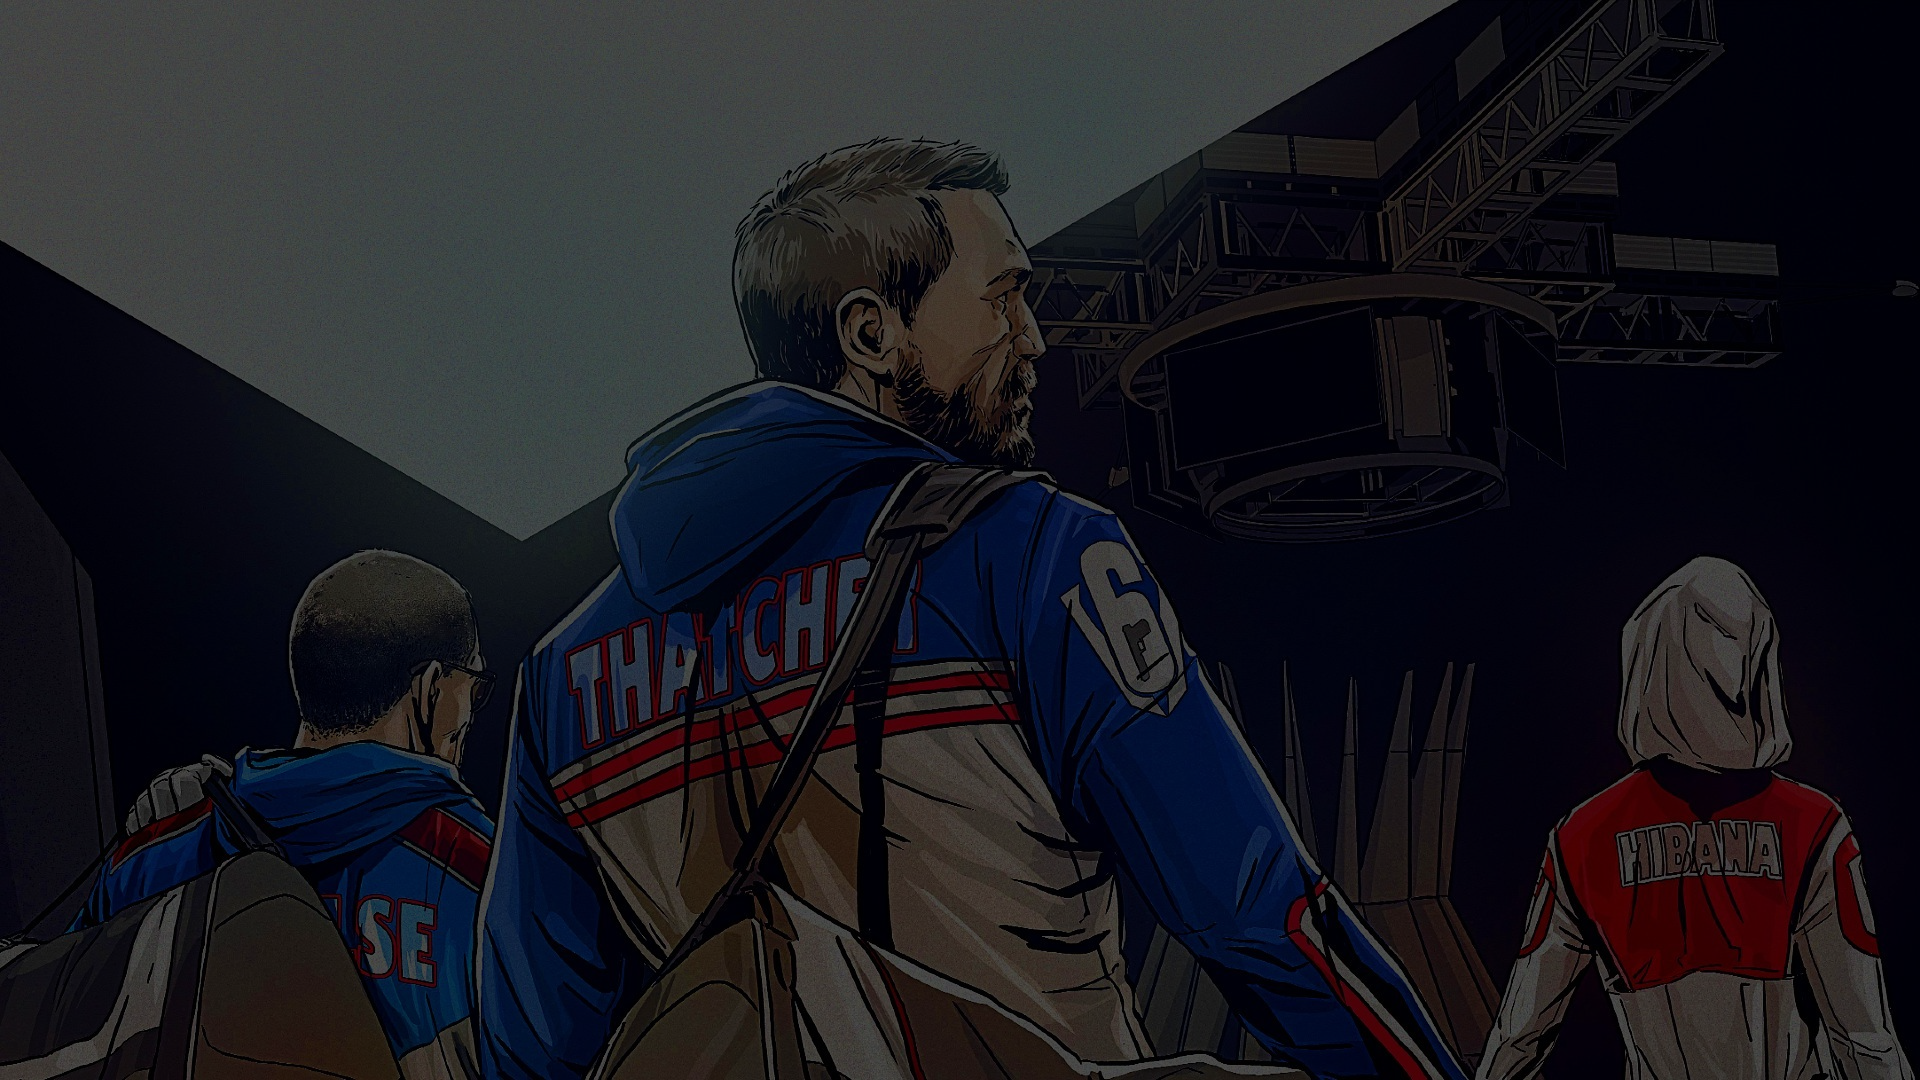
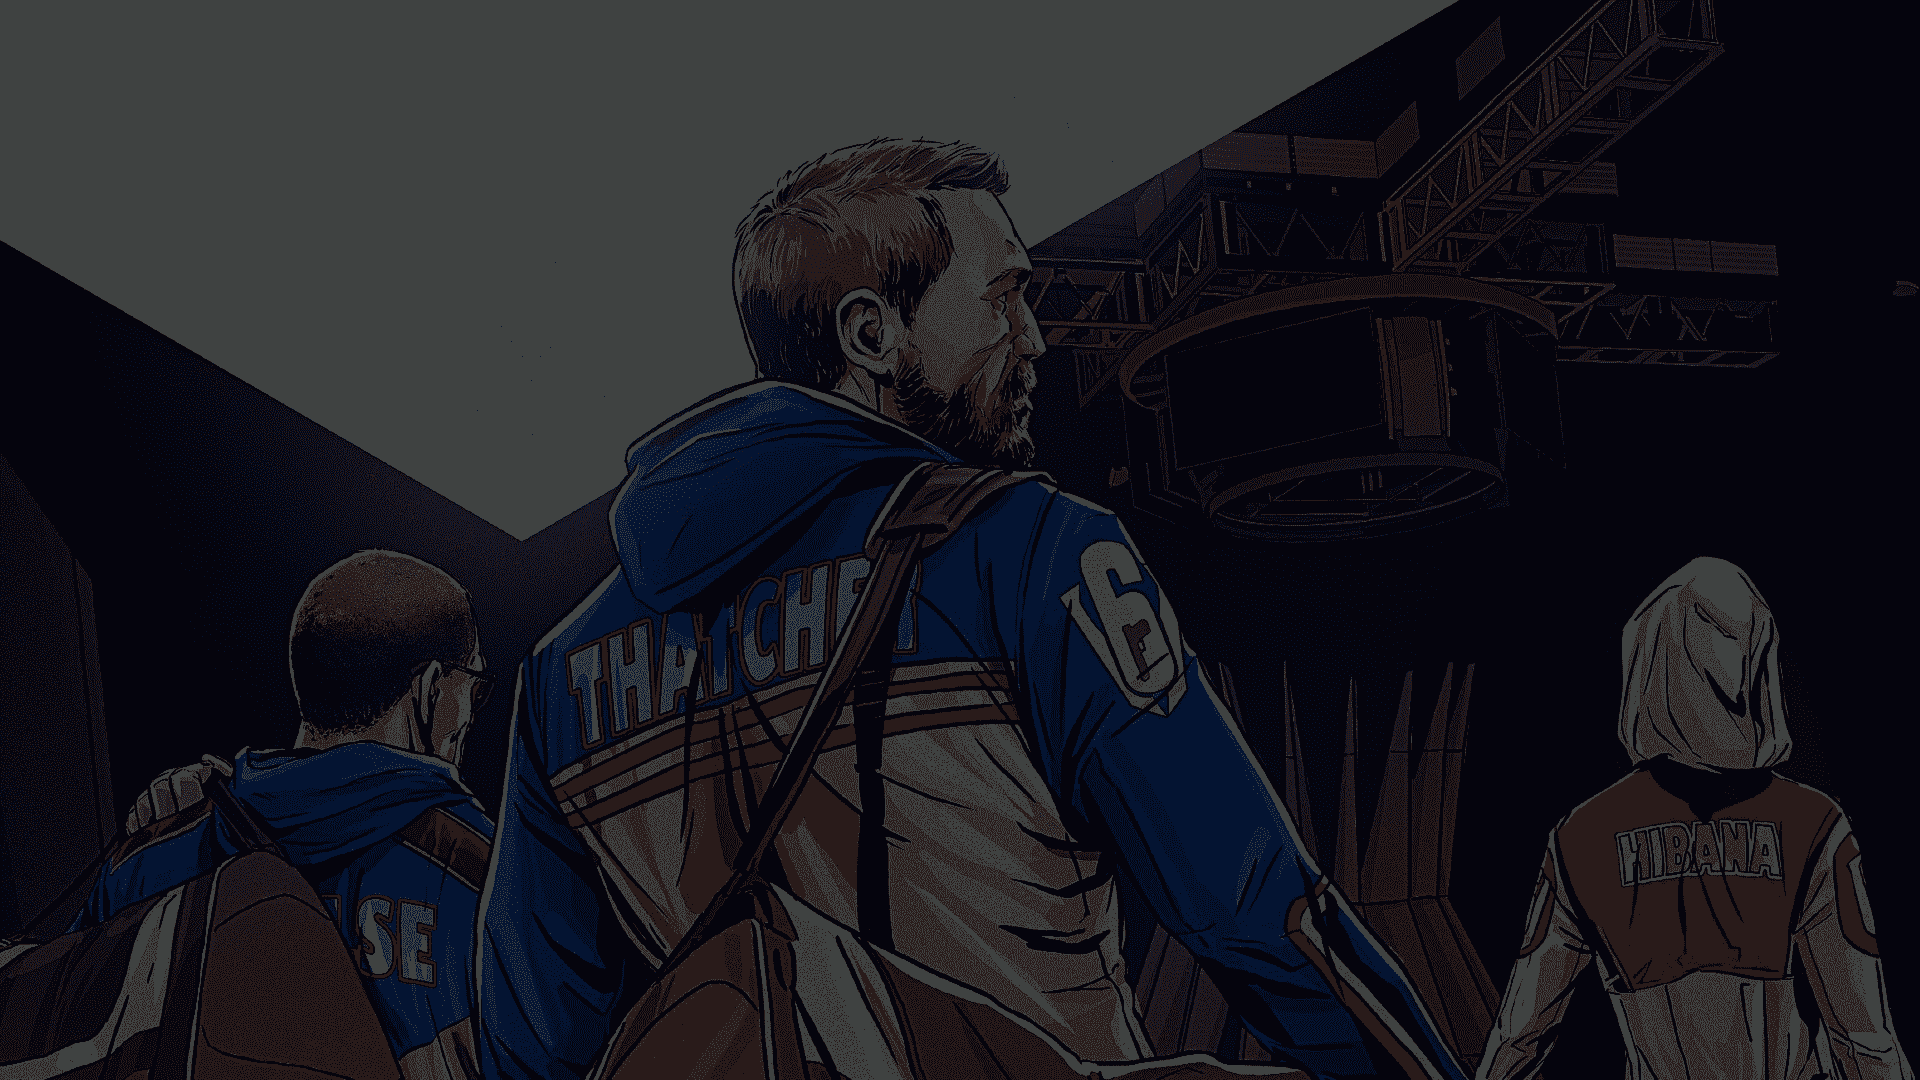
What am I even doing

diff --git a/VIETNAMESE/CSS/styleVN.css b/VIETNAMESE/CSS/styleVN.css
@@ -495,7 +495,7 @@ span {
 .operation {
     width: 100%;
     height: 20vh;
-    background-image: url('../../Img/darkArkOne_compressed.png');
+    background-image: url('../../Img/InvitationalBlack_compressed.png');
     background-position: center;
     background-size: cover;
     background-attachment: fixed; /* This enables the parallax effect */

diff --git a/DUTCH/CSS/styleNL.css b/DUTCH/CSS/styleNL.css
@@ -32,7 +32,7 @@ body::-webkit-scrollbar-thumb:hover {
 
 .background {
     height: 1050px;
-    background-image: url('../../Img/SteelWaveDarkBG.png');
+    background-image: url('../../Img/SteelWaveDarkBG_compressed.png');
     background-position: center;
     background-size: cover;
 }

diff --git a/CSS/style.css b/CSS/style.css
@@ -32,7 +32,7 @@ body::-webkit-scrollbar-thumb:hover {
 
 .background {
     height: 1050px;
-    background-image: url('../Img/ACSyndicateBG.png');
+    background-image: url('../Img/ACSyndicateBG_compressed.png');
     background-position: center;
     background-size: cover;
 }
